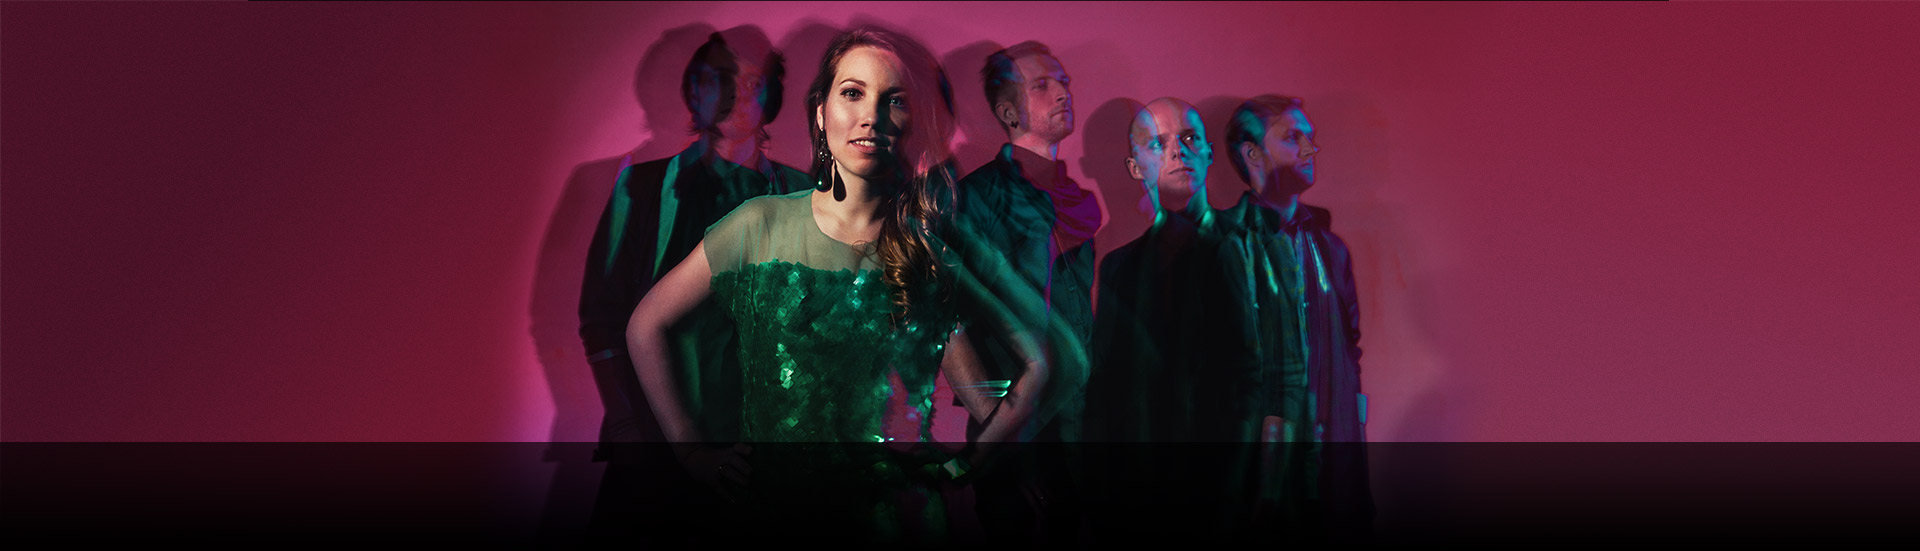
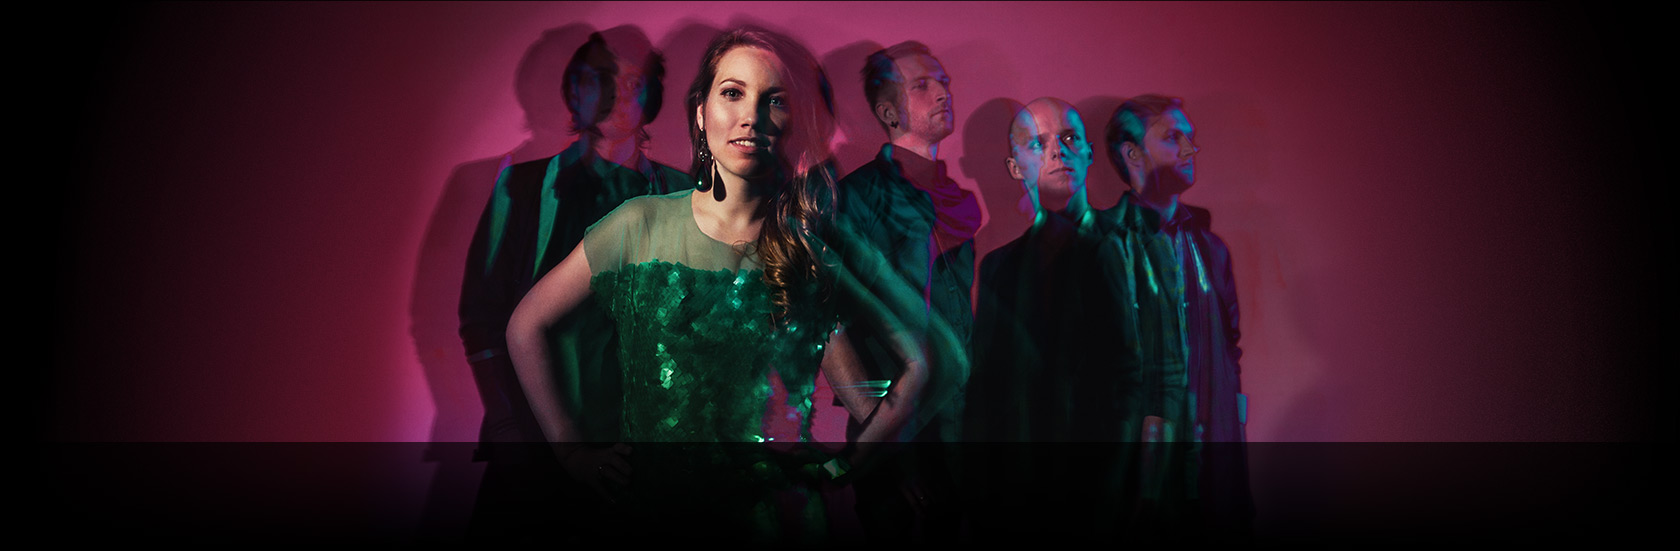
Add radial shadow for bg

diff --git a/en.html b/en.html
@@ -13,9 +13,9 @@
     html, body { margin: 0; padding: 0; }
     a img { border: none; }
     /* main */
-    body { font: 16px/1.5 "Open Sans", "Arial", sans-serif; color: #fff; background: #000 url('http://static.tumblr.com/qtngqf7/LCxmyw1fr/bg.jpg') no-repeat center 35px; min-width: 980px; }
+    body { font: 16px/1.5 "Open Sans", "Arial", sans-serif; color: #fff; background: #000 url('http://static.tumblr.com/qtngqf7/Hulmywg9b/bg.jpg') no-repeat center 35px; min-width: 980px; }
     @media (-webkit-min-device-pixel-ratio: 2), (min-resolution: 192dpi) { 
-      body { background-image: url('http://static.tumblr.com/qtngqf7/R4dmyw2cf/bg_2x.jpg'); background-size: 1920px 551px; }
+      body { background-image: url('http://static.tumblr.com/qtngqf7/5komywfyp/bg_2x.jpg'); background-size: 1680px 551px; }
     }
     a { color: #AD3E6C; text-decoration: none; -webkit-transition: all 0.3s ease-in-out; -moz-transition: all 0.3s ease-in-out; transition: all 0.3s ease-in-out; }
     a:hover { color: #fff; }

diff --git a/lv.html b/lv.html
@@ -13,9 +13,9 @@
     html, body { margin: 0; padding: 0; }
     a img { border: none; }
     /* main */
-    body { font: 16px/1.5 "Open Sans", "Arial", sans-serif; color: #fff; background: #000 url('http://static.tumblr.com/qtngqf7/LCxmyw1fr/bg.jpg') no-repeat center 35px; min-width: 980px; }
+    body { font: 16px/1.5 "Open Sans", "Arial", sans-serif; color: #fff; background: #000 url('http://static.tumblr.com/qtngqf7/Hulmywg9b/bg.jpg') no-repeat center 35px; min-width: 980px; }
     @media (-webkit-min-device-pixel-ratio: 2), (min-resolution: 192dpi) { 
-      body { background-image: url('http://static.tumblr.com/qtngqf7/R4dmyw2cf/bg_2x.jpg'); background-size: 1920px 551px; }
+      body { background-image: url('http://static.tumblr.com/qtngqf7/5komywfyp/bg_2x.jpg'); background-size: 1680px 551px; }
     }
     a { color: #AD3E6C; text-decoration: none; -webkit-transition: all 0.3s ease-in-out; -moz-transition: all 0.3s ease-in-out; transition: all 0.3s ease-in-out; }
     a:hover { color: #fff; }

diff --git a/template.html b/template.html
@@ -13,9 +13,9 @@
     html, body { margin: 0; padding: 0; }
     a img { border: none; }
     /* main */
-    body { font: 16px/1.5 "Open Sans", "Arial", sans-serif; color: #fff; background: #000 url('http://static.tumblr.com/qtngqf7/LCxmyw1fr/bg.jpg') no-repeat center 35px; min-width: 980px; }
+    body { font: 16px/1.5 "Open Sans", "Arial", sans-serif; color: #fff; background: #000 url('http://static.tumblr.com/qtngqf7/Hulmywg9b/bg.jpg') no-repeat center 35px; min-width: 980px; }
     @media (-webkit-min-device-pixel-ratio: 2), (min-resolution: 192dpi) { 
-      body { background-image: url('http://static.tumblr.com/qtngqf7/R4dmyw2cf/bg_2x.jpg'); background-size: 1920px 551px; }
+      body { background-image: url('http://static.tumblr.com/qtngqf7/5komywfyp/bg_2x.jpg'); background-size: 1680px 551px; }
     }
     a { color: #AD3E6C; text-decoration: none; -webkit-transition: all 0.3s ease-in-out; -moz-transition: all 0.3s ease-in-out; transition: all 0.3s ease-in-out; }
     a:hover { color: #fff; }
